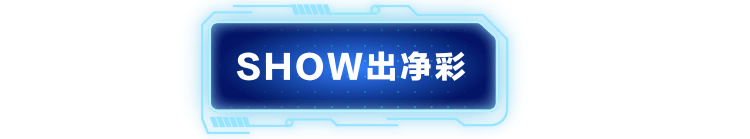
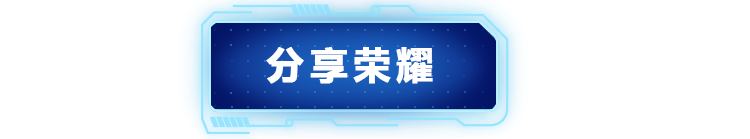
233222222111222223332332333222

Changed region(s): [[0.276, 0.0863, 0.6747, 0.8633], [0.5213, 0.6619, 0.5827, 0.7194]]

diff --git a/m.invitation2/index.html b/m.invitation2/index.html
@@ -45,7 +45,26 @@
                 <p class="tips">loading...</p>
             </div>
         </div>
+        <div class="page page7">
+            <!-- 邀请人 -->
+            <div class="halo_box">
+                <img src="images/halo_txt.png" alt="" class="auto_img">
+                <img src="images/halo.png" alt="" class="halo">
+            </div>
+            <div class="page2_main" style="top: 54%">
+                <p style="text-align: center;color:#fff;font-size: 18px;">李某某</p>
+            </div>
+            <div class="btn_group">
+                <a href="javascript:;" class="jumpShare">
+                    <img src="images/share_btn_01.png" alt="" class="img anm_pulse" style="width: 37.5vw;">
+                </a>
+                <a href="javascript:;" class="nextShow">
+                    <img src="images/share_btn_02.png" alt="" class="img anm_pulse" style="width: 37.5vw;">
+                </a>
+            </div>
+        </div>
         <div class="page page2">
+            <!-- 原有首页 -->
             <div class="halo_box" style="top: 18%;">
                 <img src="images/halo_txt.png" alt="" class="auto_img">
                 <img src="images/halo.png" alt="" class="halo">
@@ -54,6 +73,8 @@
                 <img src="images/bot_btn_01.png" alt="" class="auto_img anm_pulse">
             </a>
         </div>
+
+
 
         <div class="page page3">
 
@@ -145,7 +166,7 @@
                         </div>
                     </div>
                 </div>
-                <img src="images/page2/arrow.png" alt="" class="page2_arrow page2_arrow1 animated fadeInDown" style="animation-delay: 1s;">
+                <img src="images/page2/arrow.png" alt="" class="page2_arrow page2_arrow1 animated fadeInDown" style="animation-delay: 8s;">
             </div>
         </div>
 
@@ -273,6 +294,15 @@
     <script src="js/particles.min.js"></script>
     <script src="js/app.js"></script>
     <script>
+        $('input').blur(() => {
+            var odiv = document.createElement('div')
+            odiv.style.height = "999px"
+            document.body.appendChild(odiv)
+            setTimeout(() => {
+                odiv.parentNode.removeChild(odiv)
+            }, 0)
+        })
+
         //点击按钮跳转下一个页面
         $(".nextShow").on('click', function () {
             if ($(this).parents(".page").next().hasClass("page3")) {
@@ -282,62 +312,15 @@
                 setTimeout(function () {
                     $(".txt_box1 .t2").addClass("text-row1")
                 }, 1500)
+
                 setTimeout(function () {
                     $(".txt_box1 .t3").addClass("text-row0")
                 }, 3000)
 
                 setTimeout(function () {
-                    $(".txt_box2 .t1").addClass("text-row0")
-                }, 7000)
-                setTimeout(function () {
-                    $(".txt_box2 .t2").addClass("text-row1")
-                }, 7500)
-                setTimeout(function () {
-                    $(".txt_box2 .t3").addClass("text-row0")
-                }, 8000)
-
-                setTimeout(function () {
-                    $(".txt_box3 .t1").addClass("text-row0")
-                }, 10500)
-                setTimeout(function () {
-                    $(".txt_box3 .t2").addClass("text-row1")
-                }, 10700)
-
-
-                setTimeout(function () {
-                    $(".txt_box4 .t1").addClass("text-row0")
-                }, 11000)
-                setTimeout(function () {
-                    $(".txt_box4 .t2").addClass("text-row1")
-                }, 11500)
-                setTimeout(function () {
-                    $(".txt_box4 .t3").addClass("text-row0")
-                }, 12000)
-
-
-
-                // let timenum = 0;
-                // 	let timer = setInterval(function () {
-                // 		parseInt(timenum++)
-                // 		// debugger
-                // 		if (timenum == 1) {
-                // 			$(".txt_box1 .t1").addClass("text-row0")
-                // 		}else if(timenum == 3){
-                // 			$(".txt_box1 .t2").addClass("text-row1")
-                // 		}else if(timenum == 5){
-                // 			$(".txt_box1 .t3").addClass("text-row0")
-                // 		}else if(timenum == 11){
-                // 			$(".txt_box2 .t1").addClass("text-row0")
-                // 		}else if(timenum == 13){
-                // 			$(".txt_box2 .t1").addClass("text-row1")
-                // 		}else if(timenum == 15){
-                // 			$(".txt_box2 .t1").addClass("text-row0")
-                // 		}
-                // 	}, 1000)
-                setTimeout(function () {
                     $(".page2_arrow1").removeClass("animated fadeInDown").addClass("p2_arrow");
                     $(".page2_arrow1").attr("style", "");
-                }, 4000)
+                }, 9000)
             }
             if ($(this).parents(".page").next().hasClass("page7")) {
                 alert("生成邀请函按钮")
@@ -348,6 +331,11 @@
             $(".page").hide();
             $(this).parents(".page").next().addClass("animated fadeIn").show();
         });
+        // 跳转到邀请页
+        $(".jumpShare").on("click", function () {
+            $(".page").hide();
+            $(".page6").addClass("animated fadeIn").show();
+        })
     </script>
 
 </body>

diff --git a/m.invitation2/css/style.css b/m.invitation2/css/style.css
@@ -344,7 +344,7 @@ body {
 
 .btn_group{
   display:flex;
-  justify-content: space-between;
+  justify-content: center;
   margin-top: 2vw;
   position: absolute;
   width: 100%;

diff --git a/m.invitation2/js/main.js b/m.invitation2/js/main.js
@@ -24,7 +24,6 @@ window.onload = function () {
 		}
 	});
 }
-
 // 显示隐藏打开分享
 $(".openShare").on("click", function () {
 	$(".share").show()
